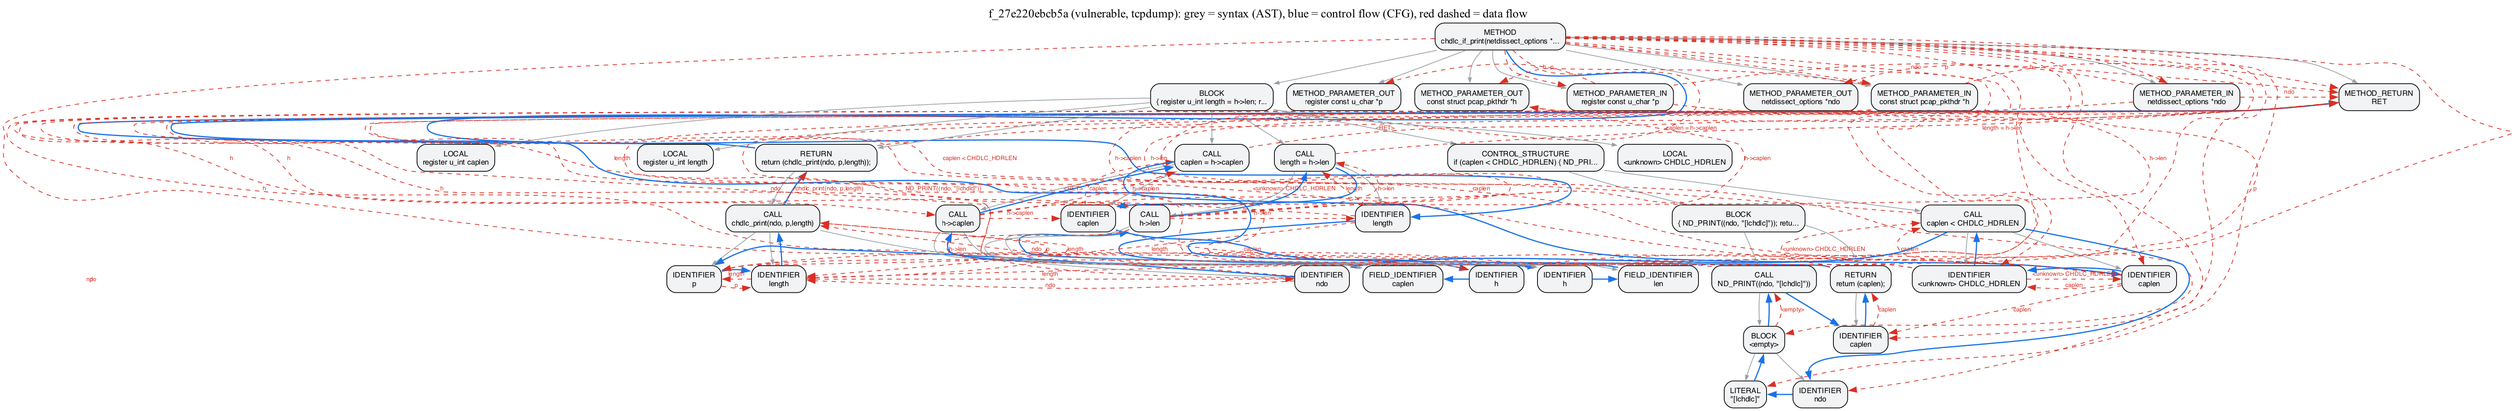
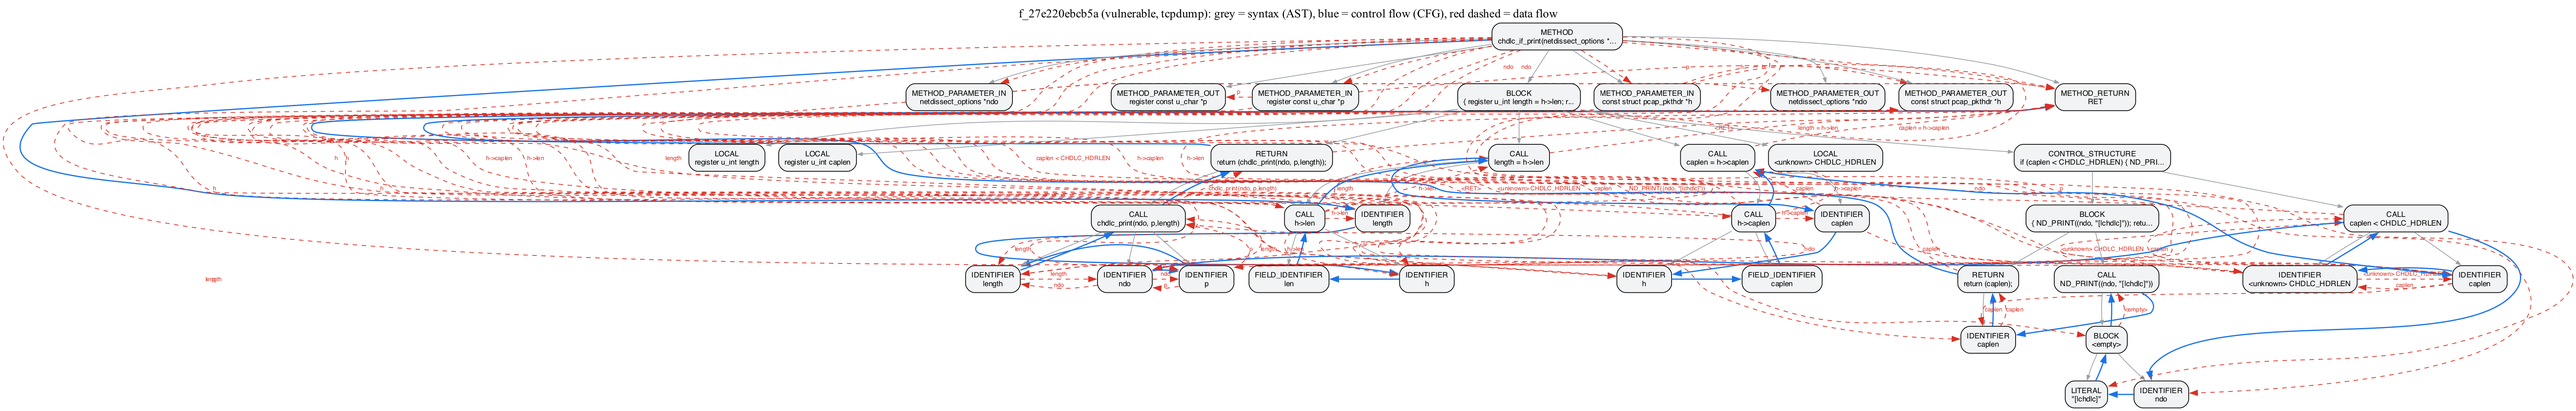
Fix C++ parsing in pilot (write .cpp), correct language claim, add three-panel CPG figure

diff --git a/docs/decisions.md b/docs/decisions.md
@@ -16,3 +16,4 @@
 - Cross-project split: Chrome, linux, Android and hosting-site pseudo-projects are train-only; val/test projects drawn by seeded shuffle (seed 42), not hand-picked.
 - Cross-project val/test rows flagged by the near-duplicate check (near_dup_cross) are excluded from evaluation; the flag stays in the parquet.
 - Joern pilot: 60 sampled functions parsed as one folder, exported as neo4jcsv (--repr all); a function's graph is the AST subtree of its METHOD node plus all edges inside it; each graph maps back to its .c file via the uid in the file name, which is also stored in the graph JSON.
+- CORRECTION: BigVul's lang tag is unreliable; pilot failures were C++ class methods saved as .c. The dataset is C/C++, not C only. Files containing C++ syntax are written as .cpp for Joern.
